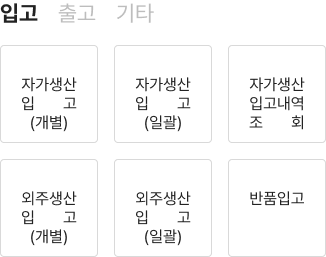
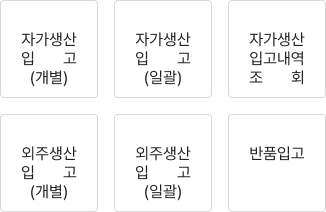
모바일

diff --git a/src/page/dashboard/DashboardMain.jsx b/src/page/dashboard/DashboardMain.jsx
@@ -1,6 +1,7 @@
 import React, { useState, useEffect, useRef } from 'react';
 import { Button } from 'primereact/button';
 import { Card } from 'primereact/card';
+import { TabView, TabPanel } from 'primereact/tabview';
 // import { ProductService } from '../service/ProductService';
 
 
@@ -28,9 +29,49 @@ const DashboardMain = (props) => {
         `}
       </style>
 
-      <div className="flex justify-center items-center w-full h-full">
-        <img src="/pda/images/main.png" alt="main" className="max-w-none"  />
-      </div>
+       <div className="card">  
+      
+      
+              {/* 공통 case01 : 검색영역 + 그리드 버튼 + 그리드영역 */}
+              <div className="hugreen_grid flex-1 flex flex-wrap md:flex-row">
+      
+                <div className="hugreen_mobile_wrap">
+                  <TabView className="hugreen-main-tabview" activeIndex={0}>
+                      <TabPanel header="입고">
+                          <div className="flex justify-center items-center w-full h-full">
+                            <img src="/pda/images/main.png" alt="main" className="max-w-none"  />
+                          </div>
+                      </TabPanel>
+                      <TabPanel header="출고">
+                          <p className="m-0">
+                              Sed ut perspiciatis unde omnis iste natus error sit voluptatem accusantium doloremque laudantium, totam rem aperiam, 
+                              eaque ipsa quae ab illo inventore veritatis et quasi architecto beatae vitae dicta sunt explicabo. Nemo
+                              enim ipsam voluptatem quia voluptas sit aspernatur aut odit aut fugit, sed quia consequuntur magni dolores eos qui 
+                              ratione voluptatem sequi nesciunt. Consectetur, adipisci velit, sed quia non numquam eius modi.
+                          </p>
+                      </TabPanel>
+                      <TabPanel header="기타">
+                          <p className="m-0">
+                              At vero eos et accusamus et iusto odio dignissimos ducimus qui blanditiis praesentium voluptatum deleniti atque corrupti 
+                              quos dolores et quas molestias excepturi sint occaecati cupiditate non provident, similique sunt in
+                              culpa qui officia deserunt mollitia animi, id est laborum et dolorum fuga. Et harum quidem rerum facilis est et expedita distinctio. 
+                              Nam libero tempore, cum soluta nobis est eligendi optio cumque nihil impedit quo minus.
+                          </p>
+                      </TabPanel>
+                  </TabView>
+                </div>
+                 
+      
+                  
+                  
+      
+      
+                  
+                 
+      
+      
+              </div>      
+          </div>
     </>
   );
 };

diff --git a/src/AppFooter.jsx b/src/AppFooter.jsx
@@ -5,30 +5,38 @@ export const AppFooter = (props) => {
 
     return (
         <div className="layout-footer" >
+            <Link to="/" >
            <button
                 type="button"
                 className="p-link layout-menu-button flex flex-col items-center gap-1.5 text-white" >
                 <i className="pi pi-qrcode" />
                 <span className="text-sm">입고</span>
             </button>
+            </Link>
+             <Link to="/" >
              <button
                 type="button"
                 className="p-link layout-menu-button flex flex-col items-center gap-1.5 text-white" >
                 <i className="pi pi-truck" />
                 <span className="text-sm">출고</span>
             </button>
+            </Link>
+             <Link to="/" >
              <button
                 type="button"
                 className="p-link layout-menu-button flex flex-col items-center gap-1.5 text-white" >
                 <i className="pi pi-tablet" />
                 <span className="text-sm">기타</span>
             </button>
+            </Link>
+             <Link to="/" >
              <button
                 type="button"
-                className="p-link layout-menu-button flex flex-col items-center gap-1.5 text-white" onClick={props.onToggleMenuClick}>
+                className="p-link layout-menu-button flex flex-col items-center gap-1.5 text-white">
                 <i className="pi pi-ellipsis-h" />
                 <span className="text-sm">더보기</span>
             </button>
+             </Link>
         </div>
     );
 }

diff --git a/src/assets/layout/layout.scss b/src/assets/layout/layout.scss
@@ -357,6 +357,30 @@ ol, ul {padding-left: 0rem !important;}
     font-weight: 600;
   }
 
+  .hugreen-main-tabview {
+  width: 100%  !important;
+  padding: 1rem 0rem  0 0rem !important;
+
+  .p-tabview-nav {
+    padding-bottom: 0;
+    border-bottom: 0px solid transparent !important;
+  }
+
+  .p-tabview-nav-link {
+    background: #F5F6F9 !important;    
+    border-bottom: 0px solid #d7d7d7;
+    font-size: 20px;
+    padding: 0.75rem 1.25rem;
+    margin-right:-1px !important;
+    color: #777;
+    font-weight: 500;
+    border-radius: 0px !important;
+
+    &:hover {
+      color: #000;
+    }
+  } 
+}
 
 /* +++++++++++++++++++++++++++++++++++++++++++++++++++++++++++++++++++++++++++++++++++++++++++++++++ */
 /* ag그리드 스타일 재정의 */
